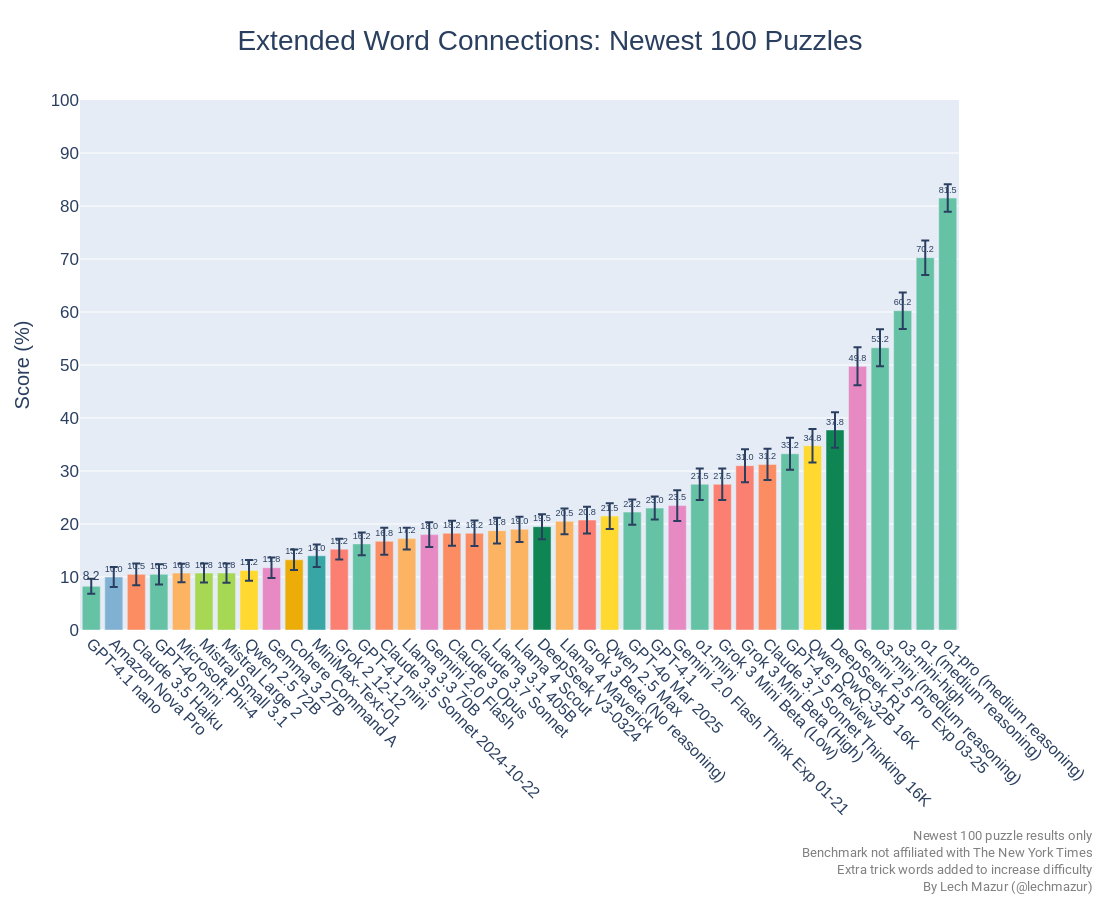
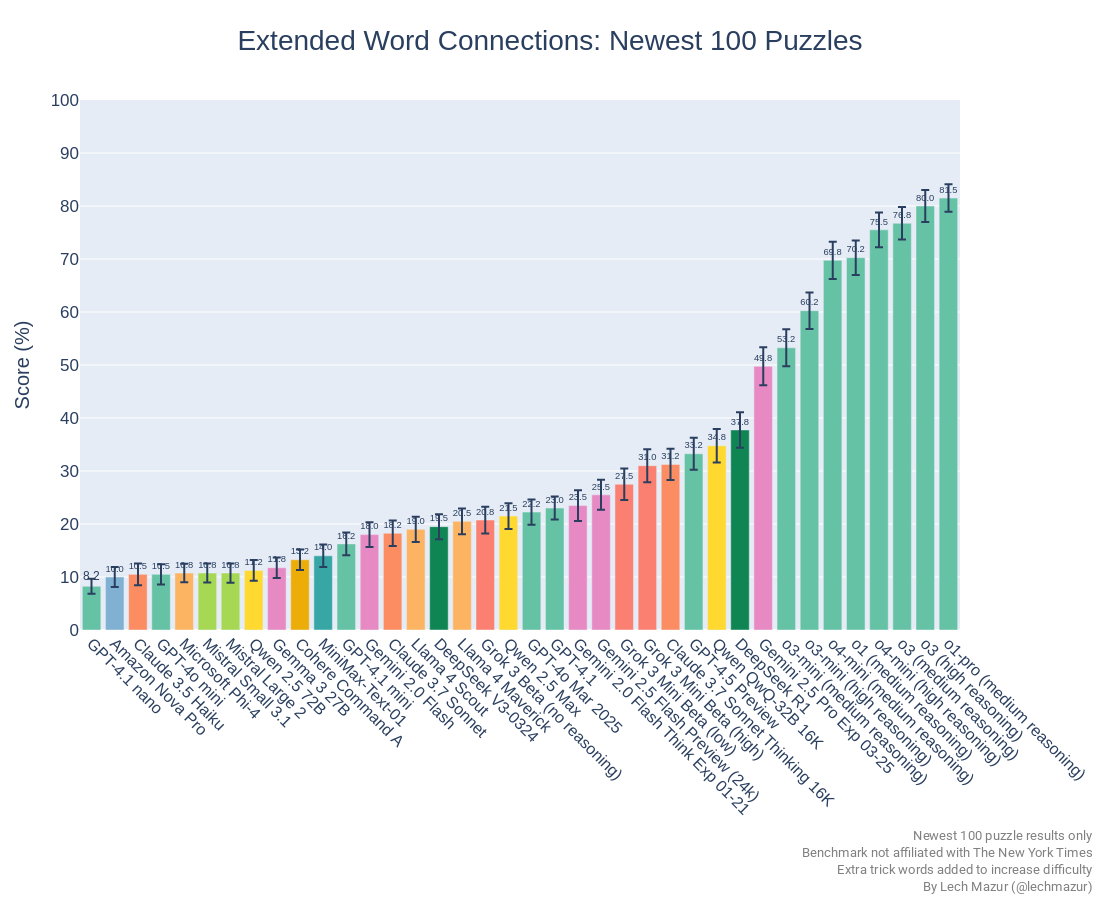
o3, o4-mini, Gemini 2.5 Flash Preview added

diff --git a/README.md b/README.md
@@ -11,54 +11,59 @@ As of Feb 4, 2025, there is a new version of the benchmark. The standard NYT Con
 |Rank|Model|Score(%)|
 |---:|-----|-------:|
 |1|o1-pro (medium reasoning)|82.5|
-|2|o1 (medium reasoning)|70.8|
-|3|o3-mini-high|61.4|
-|4|Gemini 2.5 Pro Exp 03-25|54.1|
-|5|o3-mini (medium reasoning)|53.6|
-|6|DeepSeek R1|38.6|
-|7|GPT-4.5 Preview|34.2|
-|8|Claude 3.7 Sonnet Thinking 16K|33.6|
-|9|Qwen QwQ-32B 16K|31.4|
-|10|Grok 3 Mini Beta (High)|30.9|
-|11|o1-mini|27.0|
-|12|Grok 3 Mini Beta (Low)|26.0|
-|13|Quasar Alpha|25.4|
-|14|GPT-4o Mar 2025|25.2|
-|15|GPT-4.1|23.6|
-|16|Gemini 2.0 Flash Think Exp 01-21|23.1|
-|17|GPT-4o Feb 2025|22.7|
-|18|Gemini 2.0 Pro Exp 02-05|21.7|
-|19|Grok 3 Beta (No reasoning)|20.3|
-|20|Grok 2 12-12|19.2|
-|21|Gemini 1.5 Pro (Sept)|19.2|
-|22|Claude 3.7 Sonnet|19.2|
-|23|Claude 3 Opus|19.2|
-|24|Llama 4 Maverick|19.1|
-|25|Gemini 2.0 Flash|18.8|
-|26|GPT-4o 2024-11-20|18.7|
-|27|Qwen 2.5 Max|18.0|
-|28|Llama 4 Scout|17.9|
-|29|GPT-4o 2024-08-06|17.8|
-|30|Claude 3.5 Sonnet 2024-10-22|17.7|
-|31|DeepSeek V3-0324|17.4|
-|32|Llama 3.1 405B|16.2|
-|33|DeepSeek V3|15.1|
-|34|Llama 3.3 70B|15.1|
-|35|GPT-4.1 mini|15.1|
-|36|MiniMax-Text-01|14.6|
-|37|Cohere Command A|13.6|
-|38|Mistral Large 2|12.6|
-|39|Gemma 2 27B|12.2|
-|40|Gemma 3 27B|11.8|
-|41|Mistral Small 3.1|11.4|
-|42|Qwen 2.5 72B|11.1|
-|43|Claude 3.5 Haiku|10.3|
-|44|Microsoft Phi-4|10.2|
-|45|Amazon Nova Pro|10.1|
-|46|GPT-4o mini|9.9|
-|47|Mistral Small 3|8.9|
-|48|GPT-4.1 nano|8.6|
-|49|Claude 3 Haiku|2.2|
+|2|o3 (high reasoning)|79.5|
+|3|o4-mini (high reasoning)|74.7|
+|4|o3 (medium reasoning)|74.0|
+|5|o1 (medium reasoning)|70.8|
+|6|o4-mini (medium reasoning)|68.8|
+|7|o3-mini (high reasoning)|61.4|
+|8|Gemini 2.5 Pro Exp 03-25|54.1|
+|9|o3-mini (medium reasoning)|53.6|
+|10|DeepSeek R1|38.6|
+|11|GPT-4.5 Preview|34.2|
+|12|Claude 3.7 Sonnet Thinking 16K|33.6|
+|13|Qwen QwQ-32B 16K|31.4|
+|14|Grok 3 Mini Beta (high)|30.9|
+|15|o1-mini|27.0|
+|16|Grok 3 Mini Beta (low)|26.0|
+|17|Gemini 2.5 Flash Preview (24k)|25.8|
+|18|Quasar Alpha|25.4|
+|19|GPT-4o Mar 2025|25.2|
+|20|GPT-4.1|23.6|
+|21|Gemini 2.0 Flash Think Exp 01-21|23.1|
+|22|GPT-4o Feb 2025|22.7|
+|23|Gemini 2.0 Pro Exp 02-05|21.7|
+|24|Grok 3 Beta (no reasoning)|20.3|
+|25|Grok 2 12-12|19.2|
+|26|Gemini 1.5 Pro (Sept)|19.2|
+|27|Claude 3.7 Sonnet|19.2|
+|28|Claude 3 Opus|19.2|
+|29|Llama 4 Maverick|19.1|
+|30|Gemini 2.0 Flash|18.8|
+|31|GPT-4o 2024-11-20|18.7|
+|32|Qwen 2.5 Max|18.0|
+|33|Llama 4 Scout|17.9|
+|34|GPT-4o 2024-08-06|17.8|
+|35|Claude 3.5 Sonnet 2024-10-22|17.7|
+|36|DeepSeek V3-0324|17.4|
+|37|Llama 3.1 405B|16.2|
+|38|DeepSeek V3|15.1|
+|39|Llama 3.3 70B|15.1|
+|40|GPT-4.1 mini|15.1|
+|41|MiniMax-Text-01|14.6|
+|42|Cohere Command A|13.6|
+|43|Mistral Large 2|12.6|
+|44|Gemma 2 27B|12.2|
+|45|Gemma 3 27B|11.8|
+|46|Mistral Small 3.1|11.4|
+|47|Qwen 2.5 72B|11.1|
+|48|Claude 3.5 Haiku|10.3|
+|49|Microsoft Phi-4|10.2|
+|50|Amazon Nova Pro|10.1|
+|51|GPT-4o mini|9.9|
+|52|Mistral Small 3|8.9|
+|53|GPT-4.1 nano|8.6|
+|54|Claude 3 Haiku|2.2|
 
 
 ---
@@ -82,54 +87,60 @@ To counteract the possibility of an LLM's training data including the solutions,
 |Rank|Model|Score(%)|
 |---:|-----|-------:|
 |1|o1-pro (medium reasoning)|81.5|
-|2|o1 (medium reasoning)|70.2|
-|3|o3-mini-high|60.2|
-|4|o3-mini (medium reasoning)|53.2|
-|5|Gemini 2.5 Pro Exp 03-25|49.8|
-|6|DeepSeek R1|37.8|
-|7|Qwen QwQ-32B 16K|34.8|
-|8|GPT-4.5 Preview|33.2|
-|9|Claude 3.7 Sonnet Thinking 16K|31.2|
-|10|Grok 3 Mini Beta (High)|31.0|
-|11|Grok 3 Mini Beta (Low)|27.5|
-|12|o1-mini|27.5|
-|13|Gemini 2.0 Flash Think Exp 01-21|23.5|
-|14|GPT-4.1|23.0|
-|15|Quasar Alpha|23.0|
-|16|GPT-4o Mar 2025|22.2|
-|17|Qwen 2.5 Max|21.5|
-|18|Gemini 2.0 Pro Exp 02-05|20.8|
-|19|Grok 3 Beta (No reasoning)|20.8|
-|20|Llama 4 Maverick|20.5|
-|21|GPT-4o Feb 2025|20.0|
-|22|DeepSeek V3-0324|19.5|
-|23|Llama 4 Scout|19.0|
-|24|Llama 3.1 405B|18.8|
-|25|Claude 3.7 Sonnet|18.2|
-|26|Claude 3 Opus|18.2|
-|27|Gemini 2.0 Flash|18.0|
-|28|Llama 3.3 70B|17.2|
-|29|Claude 3.5 Sonnet 2024-10-22|16.8|
-|30|GPT-4.1 mini|16.2|
-|31|DeepSeek V3|15.8|
-|32|Grok 2 12-12|15.2|
-|33|MiniMax-Text-01|14.0|
-|34|Cohere Command A|13.2|
-|35|Gemini 1.5 Pro (Sept)|12.5|
-|36|GPT-4o 2024-08-06|12.0|
-|37|GPT-4o 2024-11-20|12.0|
-|38|Gemma 3 27B|11.8|
-|39|Qwen 2.5 72B|11.2|
-|40|Gemma 2 27B|10.8|
-|41|Mistral Large 2|10.8|
-|42|Mistral Small 3.1|10.8|
-|43|Microsoft Phi-4|10.8|
-|44|GPT-4o mini|10.5|
-|45|Claude 3.5 Haiku|10.5|
-|46|Amazon Nova Pro|10.0|
-|47|GPT-4.1 nano|8.2|
-|48|Mistral Small 3|5.0|
-|49|Claude 3 Haiku|1.5|
+|2|o3 (high reasoning)|80.0|
+|3|o3 (medium reasoning)|76.8|
+|4|o4-mini (high reasoning)|75.5|
+|5|o1 (medium reasoning)|70.2|
+|6|o4-mini (medium reasoning)|69.8|
+|7|o3-mini (high reasoning)|60.2|
+|8|o3-mini (medium reasoning)|53.2|
+|9|Gemini 2.5 Pro Exp 03-25|49.8|
+|10|DeepSeek R1|37.8|
+|11|Qwen QwQ-32B 16K|34.8|
+|12|GPT-4.5 Preview|33.2|
+|13|Claude 3.7 Sonnet Thinking 16K|31.2|
+|14|Grok 3 Mini Beta (high)|31.0|
+|15|Grok 3 Mini Beta (low)|27.5|
+|16|o1-mini|27.5|
+|17|Gemini 2.5 Flash Preview (24k)|25.5|
+|18|Gemini 2.0 Flash Think Exp 01-21|23.5|
+|19|GPT-4.1|23.0|
+|20|Quasar Alpha|23.0|
+|21|GPT-4o Mar 2025|22.2|
+|22|Qwen 2.5 Max|21.5|
+|23|Gemini 2.0 Pro Exp 02-05|20.8|
+|24|Grok 3 Beta (no reasoning)|20.8|
+|25|Llama 4 Maverick|20.5|
+|26|GPT-4o Feb 2025|20.0|
+|27|DeepSeek V3-0324|19.5|
+|28|Llama 4 Scout|19.0|
+|29|Llama 3.1 405B|18.8|
+|30|Claude 3.7 Sonnet|18.2|
+|31|Claude 3 Opus|18.2|
+|32|Gemini 2.0 Flash|18.0|
+|33|Llama 3.3 70B|17.2|
+|34|Claude 3.5 Sonnet 2024-10-22|16.8|
+|35|GPT-4.1 mini|16.2|
+|36|DeepSeek V3|15.8|
+|37|Grok 2 12-12|15.2|
+|38|MiniMax-Text-01|14.0|
+|39|Cohere Command A|13.2|
+|40|Gemini 1.5 Pro (Sept)|12.5|
+|41|GPT-4o 2024-08-06|12.0|
+|42|GPT-4o 2024-11-20|12.0|
+|43|Gemma 3 27B|11.8|
+|44|Qwen 2.5 72B|11.2|
+|45|Gemma 2 27B|10.8|
+|46|Mistral Large 2|10.8|
+|47|Mistral Small 3.1|10.8|
+|48|Microsoft Phi-4|10.8|
+|49|GPT-4o mini|10.5|
+|50|Claude 3.5 Haiku|10.5|
+|51|Amazon Nova Pro|10.0|
+|52|GPT-4.1 nano|8.2|
+|53|Mistral Small 3|5.0|
+|54|Claude 3 Haiku|1.5|
+
 
 
 
@@ -218,6 +229,7 @@ This benchmark evaluates large language models (LLMs) using 436 NYT Connections 
 ---
 
 ## Updates
+- Apr 18, 2025: o3, o4-mini, Gemini 2.5 Flash Preview added.
 - Apr 15, 2025: GPT-4.1 added.
 - Apr 10, 2025: Grok 3 added.
 - Apr 5, 2025: Llama 4 Maverick, Llama 4 Scout added.
